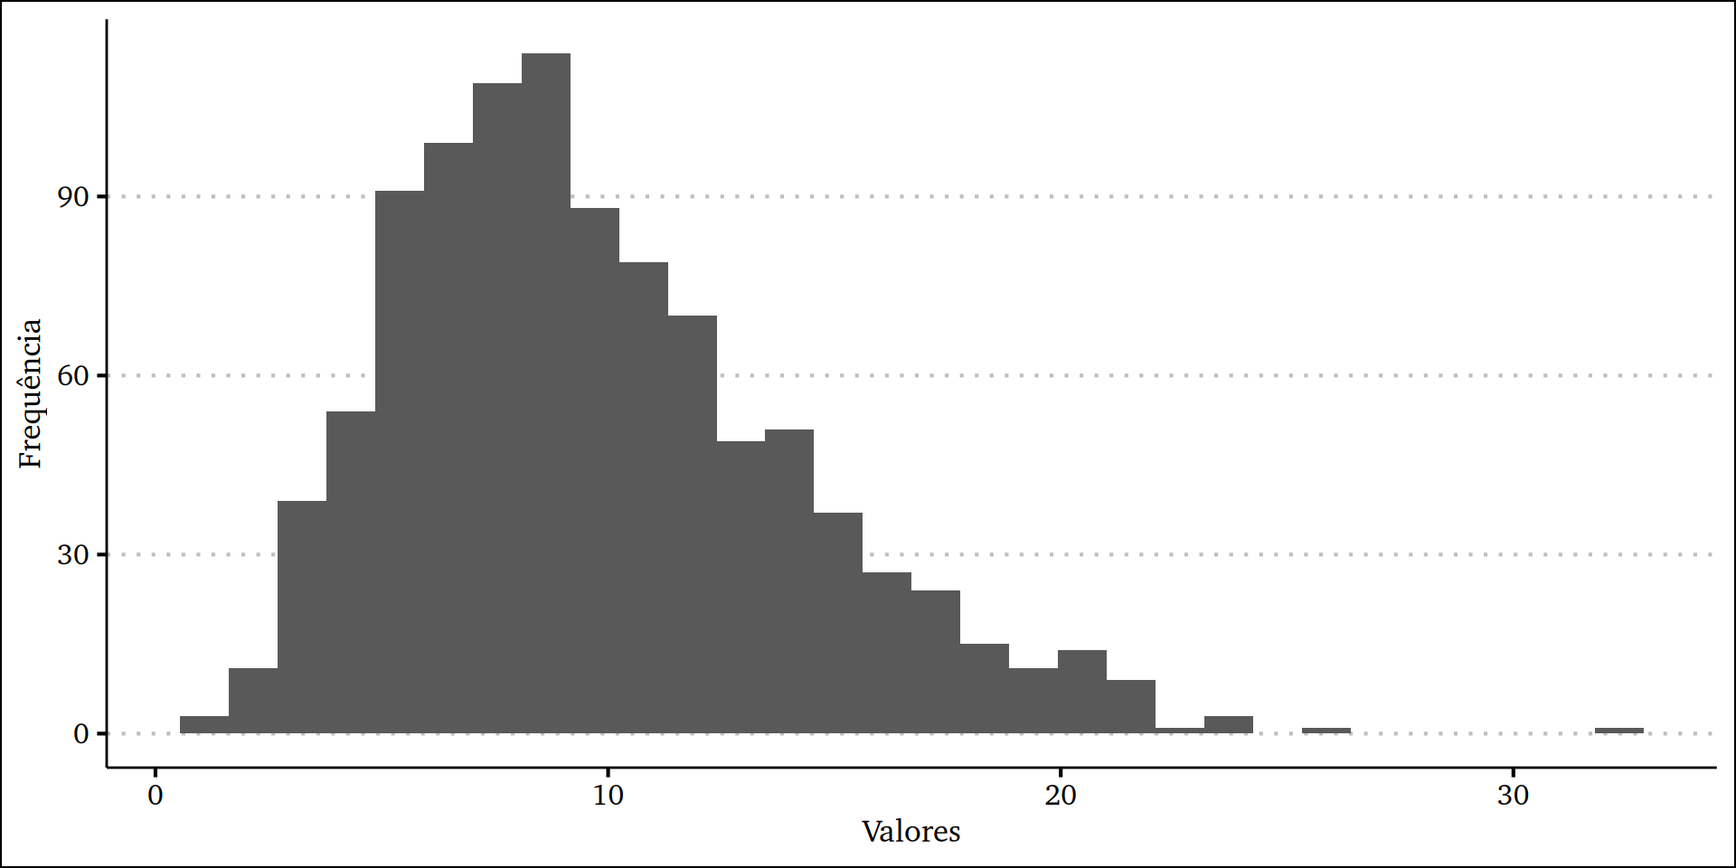
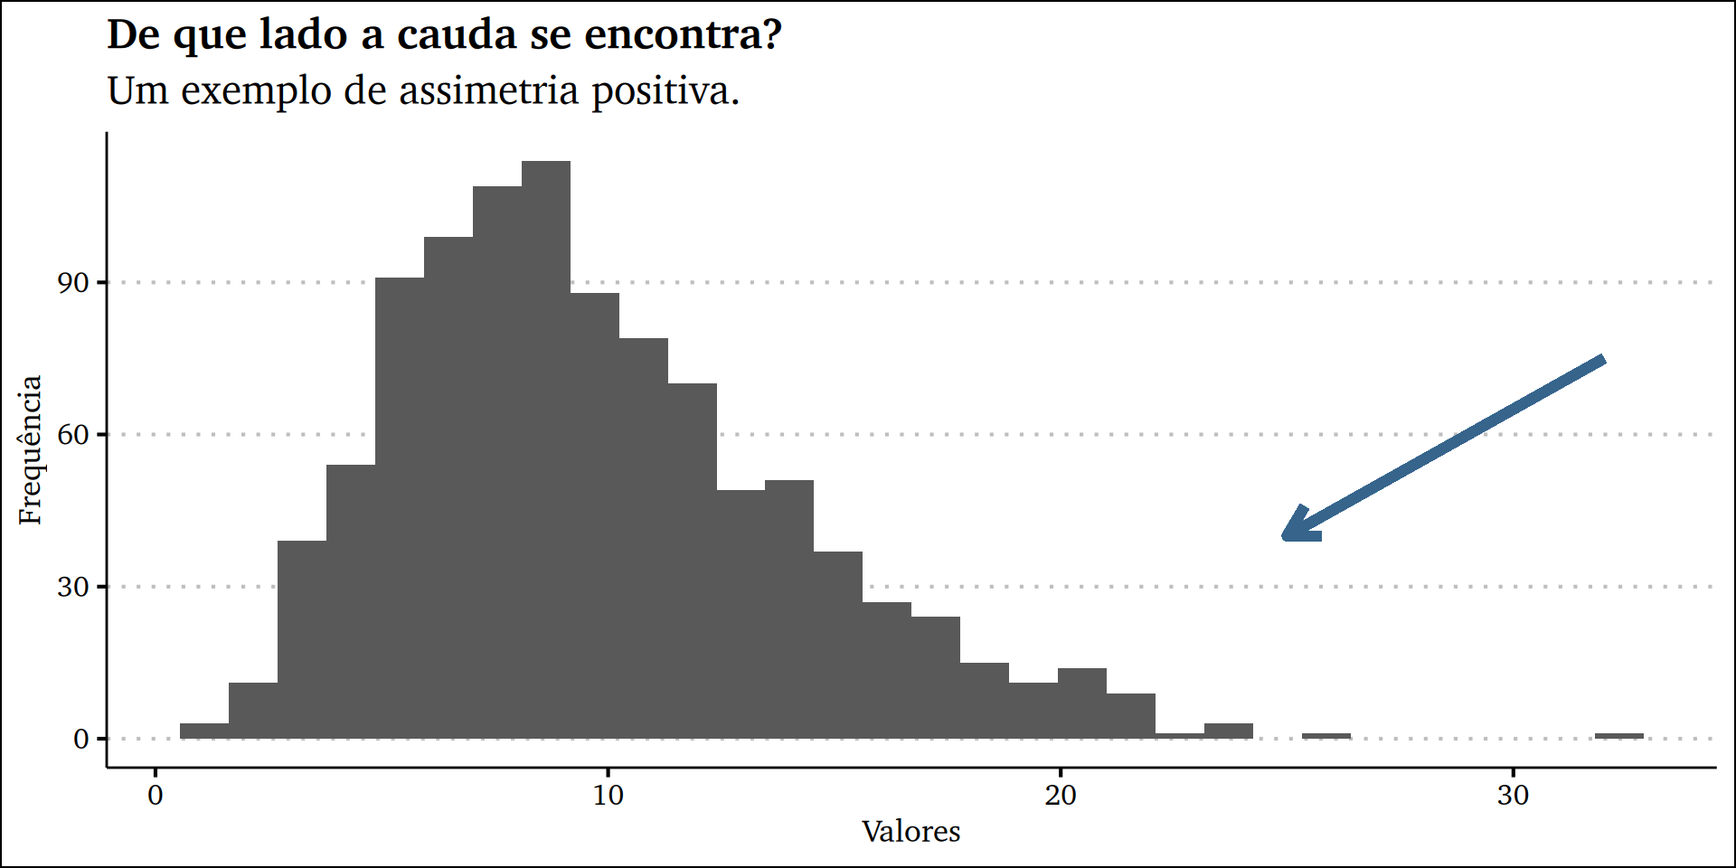
Adicionar título, subtítulo e flecha no gráfico de exemplo de assimetria positiva na aula 4 de análise descritiva.

diff --git a/docs/slides/4_descritiva/slides_descritiva.html b/docs/slides/4_descritiva/slides_descritiva.html
@@ -795,17 +795,7 @@ W = 0.95921, p-value = 0.00000003679</code></pre>
 </section>
 <section id="exemplo-de-distribuição-assimétrica" class="slide level2">
 <h2>Exemplo de distribuição assimétrica</h2>
-<div class="cell" data-layout-align="center">
-<div class="sourceCode cell-code" id="cb29"><pre class="sourceCode numberSource r number-lines code-with-copy"><code class="sourceCode r"><span id="cb29-1"><a href="#cb29-1"></a><span class="fu">set.seed</span>(<span class="dv">1</span>)</span>
-<span id="cb29-2"><a href="#cb29-2"></a></span>
-<span id="cb29-3"><a href="#cb29-3"></a><span class="fu">tibble</span>(<span class="at">x =</span> <span class="fu">rchisq</span>(<span class="dv">1000</span>, <span class="dv">10</span>)) <span class="sc">|&gt;</span> </span>
-<span id="cb29-4"><a href="#cb29-4"></a>  <span class="fu">ggplot</span>() <span class="sc">+</span></span>
-<span id="cb29-5"><a href="#cb29-5"></a>  <span class="fu">aes</span>(<span class="at">x =</span> x) <span class="sc">+</span></span>
-<span id="cb29-6"><a href="#cb29-6"></a>  <span class="fu">geom_histogram</span>() <span class="sc">+</span></span>
-<span id="cb29-7"><a href="#cb29-7"></a>  <span class="fu">labs</span>(<span class="at">x =</span> <span class="st">"Valores"</span>, <span class="at">y =</span> <span class="st">"Frequência"</span>) <span class="sc">+</span></span>
-<span id="cb29-8"><a href="#cb29-8"></a>  ggthemes<span class="sc">::</span><span class="fu">theme_clean</span>(<span class="at">base_size =</span> <span class="dv">16</span>, <span class="at">base_family =</span> <span class="st">"Charter"</span>)</span></code><button title="Copiar para a área de transferência" class="code-copy-button"><i class="bi"></i></button></pre></div>
 
-</div>
 <img data-src="slides_descritiva_files/figure-revealjs/histograma-distribuicao-assimetrica-1.png" style="width:65.0%" class="r-stretch quarto-figure-center"></section>
 <section id="curtose" class="slide level2">
 <h2>Curtose</h2>
@@ -829,19 +819,19 @@ W = 0.95921, p-value = 0.00000003679</code></pre>
 <div class="columns">
 <div class="column" style="width:50%;">
 <div class="cell">
-<div class="sourceCode cell-code" id="cb30"><pre class="sourceCode numberSource r number-lines code-with-copy"><code class="sourceCode r"><span id="cb30-1"><a href="#cb30-1"></a><span class="fu">library</span>(moments)</span>
-<span id="cb30-2"><a href="#cb30-2"></a>pinguins <span class="sc">|&gt;</span></span>
-<span id="cb30-3"><a href="#cb30-3"></a>  <span class="fu">pull</span>(massa_corporal) <span class="sc">|&gt;</span></span>
-<span id="cb30-4"><a href="#cb30-4"></a>  <span class="fu">skewness</span>(<span class="at">na.rm =</span> <span class="cn">TRUE</span>)</span></code><button title="Copiar para a área de transferência" class="code-copy-button"><i class="bi"></i></button></pre></div>
+<div class="sourceCode cell-code" id="cb29"><pre class="sourceCode numberSource r number-lines code-with-copy"><code class="sourceCode r"><span id="cb29-1"><a href="#cb29-1"></a><span class="fu">library</span>(moments)</span>
+<span id="cb29-2"><a href="#cb29-2"></a>pinguins <span class="sc">|&gt;</span></span>
+<span id="cb29-3"><a href="#cb29-3"></a>  <span class="fu">pull</span>(massa_corporal) <span class="sc">|&gt;</span></span>
+<span id="cb29-4"><a href="#cb29-4"></a>  <span class="fu">skewness</span>(<span class="at">na.rm =</span> <span class="cn">TRUE</span>)</span></code><button title="Copiar para a área de transferência" class="code-copy-button"><i class="bi"></i></button></pre></div>
 <div class="cell-output cell-output-stdout">
 <pre><code>[1] 0.468264</code></pre>
 </div>
 </div>
 </div><div class="column" style="width:50%;">
 <div class="cell">
-<div class="sourceCode cell-code" id="cb32"><pre class="sourceCode numberSource r number-lines code-with-copy"><code class="sourceCode r"><span id="cb32-1"><a href="#cb32-1"></a>pinguins <span class="sc">|&gt;</span></span>
-<span id="cb32-2"><a href="#cb32-2"></a>  <span class="fu">pull</span>(massa_corporal) <span class="sc">|&gt;</span></span>
-<span id="cb32-3"><a href="#cb32-3"></a>  <span class="fu">kurtosis</span>(<span class="at">na.rm =</span> <span class="cn">TRUE</span>)</span></code><button title="Copiar para a área de transferência" class="code-copy-button"><i class="bi"></i></button></pre></div>
+<div class="sourceCode cell-code" id="cb31"><pre class="sourceCode numberSource r number-lines code-with-copy"><code class="sourceCode r"><span id="cb31-1"><a href="#cb31-1"></a>pinguins <span class="sc">|&gt;</span></span>
+<span id="cb31-2"><a href="#cb31-2"></a>  <span class="fu">pull</span>(massa_corporal) <span class="sc">|&gt;</span></span>
+<span id="cb31-3"><a href="#cb31-3"></a>  <span class="fu">kurtosis</span>(<span class="at">na.rm =</span> <span class="cn">TRUE</span>)</span></code><button title="Copiar para a área de transferência" class="code-copy-button"><i class="bi"></i></button></pre></div>
 <div class="cell-output cell-output-stdout">
 <pre><code>[1] 2.273757</code></pre>
 </div>
@@ -883,13 +873,13 @@ W = 0.95921, p-value = 0.00000003679</code></pre>
 <div class="columns">
 <div class="column" style="width:50%;">
 <div class="cell" data-layout-align="center">
-<div class="sourceCode cell-code" id="cb34"><pre class="sourceCode numberSource r number-lines code-with-copy"><code class="sourceCode r"><span id="cb34-1"><a href="#cb34-1"></a>pinguins <span class="sc">|&gt;</span></span>
-<span id="cb34-2"><a href="#cb34-2"></a>  <span class="fu">ggplot</span>(<span class="fu">aes</span>(<span class="at">x =</span> massa_corporal)) <span class="sc">+</span></span>
-<span id="cb34-3"><a href="#cb34-3"></a>  <span class="fu">geom_histogram</span>(<span class="at">fill =</span> <span class="st">"coral2"</span>) <span class="sc">+</span></span>
-<span id="cb34-4"><a href="#cb34-4"></a>  <span class="fu">labs</span>(<span class="at">x =</span> <span class="st">"Massa corporal (em gramas)"</span>,</span>
-<span id="cb34-5"><a href="#cb34-5"></a>       <span class="at">y =</span> <span class="st">"Frequência"</span>) <span class="sc">+</span></span>
-<span id="cb34-6"><a href="#cb34-6"></a>  <span class="fu">theme_bw</span>(<span class="at">base_size =</span> <span class="dv">16</span>,</span>
-<span id="cb34-7"><a href="#cb34-7"></a>           <span class="at">base_family =</span> <span class="st">"Charter"</span>)</span></code><button title="Copiar para a área de transferência" class="code-copy-button"><i class="bi"></i></button></pre></div>
+<div class="sourceCode cell-code" id="cb33"><pre class="sourceCode numberSource r number-lines code-with-copy"><code class="sourceCode r"><span id="cb33-1"><a href="#cb33-1"></a>pinguins <span class="sc">|&gt;</span></span>
+<span id="cb33-2"><a href="#cb33-2"></a>  <span class="fu">ggplot</span>(<span class="fu">aes</span>(<span class="at">x =</span> massa_corporal)) <span class="sc">+</span></span>
+<span id="cb33-3"><a href="#cb33-3"></a>  <span class="fu">geom_histogram</span>(<span class="at">fill =</span> <span class="st">"coral2"</span>) <span class="sc">+</span></span>
+<span id="cb33-4"><a href="#cb33-4"></a>  <span class="fu">labs</span>(<span class="at">x =</span> <span class="st">"Massa corporal (em gramas)"</span>,</span>
+<span id="cb33-5"><a href="#cb33-5"></a>       <span class="at">y =</span> <span class="st">"Frequência"</span>) <span class="sc">+</span></span>
+<span id="cb33-6"><a href="#cb33-6"></a>  <span class="fu">theme_bw</span>(<span class="at">base_size =</span> <span class="dv">16</span>,</span>
+<span id="cb33-7"><a href="#cb33-7"></a>           <span class="at">base_family =</span> <span class="st">"Charter"</span>)</span></code><button title="Copiar para a área de transferência" class="code-copy-button"><i class="bi"></i></button></pre></div>
 <div class="cell-output-display">
 <div class="quarto-figure quarto-figure-center">
 <figure>
@@ -900,14 +890,14 @@ W = 0.95921, p-value = 0.00000003679</code></pre>
 </div>
 </div><div class="column" style="width:50%;">
 <div class="cell">
-<div class="sourceCode cell-code" id="cb35"><pre class="sourceCode numberSource r number-lines code-with-copy"><code class="sourceCode r"><span id="cb35-1"><a href="#cb35-1"></a>pinguins <span class="sc">|&gt;</span></span>
-<span id="cb35-2"><a href="#cb35-2"></a>  <span class="fu">mutate</span>(<span class="at">massa_log =</span> <span class="fu">log10</span>(massa_corporal)) <span class="sc">|&gt;</span></span>
-<span id="cb35-3"><a href="#cb35-3"></a>  <span class="fu">ggplot</span>(<span class="fu">aes</span>(<span class="at">x =</span> massa_log)) <span class="sc">+</span></span>
-<span id="cb35-4"><a href="#cb35-4"></a>  <span class="fu">geom_histogram</span>(<span class="at">fill =</span> <span class="st">"deepskyblue4"</span>) <span class="sc">+</span></span>
-<span id="cb35-5"><a href="#cb35-5"></a>  <span class="fu">labs</span>(<span class="at">x =</span> <span class="st">"Log da massa corporal"</span>,</span>
-<span id="cb35-6"><a href="#cb35-6"></a>       <span class="at">y =</span> <span class="st">"Frequência"</span>) <span class="sc">+</span></span>
-<span id="cb35-7"><a href="#cb35-7"></a>  <span class="fu">theme_bw</span>(<span class="at">base_size =</span> <span class="dv">16</span>,</span>
-<span id="cb35-8"><a href="#cb35-8"></a>           <span class="at">base_family =</span> <span class="st">"Charter"</span>)</span></code><button title="Copiar para a área de transferência" class="code-copy-button"><i class="bi"></i></button></pre></div>
+<div class="sourceCode cell-code" id="cb34"><pre class="sourceCode numberSource r number-lines code-with-copy"><code class="sourceCode r"><span id="cb34-1"><a href="#cb34-1"></a>pinguins <span class="sc">|&gt;</span></span>
+<span id="cb34-2"><a href="#cb34-2"></a>  <span class="fu">mutate</span>(<span class="at">massa_log =</span> <span class="fu">log10</span>(massa_corporal)) <span class="sc">|&gt;</span></span>
+<span id="cb34-3"><a href="#cb34-3"></a>  <span class="fu">ggplot</span>(<span class="fu">aes</span>(<span class="at">x =</span> massa_log)) <span class="sc">+</span></span>
+<span id="cb34-4"><a href="#cb34-4"></a>  <span class="fu">geom_histogram</span>(<span class="at">fill =</span> <span class="st">"deepskyblue4"</span>) <span class="sc">+</span></span>
+<span id="cb34-5"><a href="#cb34-5"></a>  <span class="fu">labs</span>(<span class="at">x =</span> <span class="st">"Log da massa corporal"</span>,</span>
+<span id="cb34-6"><a href="#cb34-6"></a>       <span class="at">y =</span> <span class="st">"Frequência"</span>) <span class="sc">+</span></span>
+<span id="cb34-7"><a href="#cb34-7"></a>  <span class="fu">theme_bw</span>(<span class="at">base_size =</span> <span class="dv">16</span>,</span>
+<span id="cb34-8"><a href="#cb34-8"></a>           <span class="at">base_family =</span> <span class="st">"Charter"</span>)</span></code><button title="Copiar para a área de transferência" class="code-copy-button"><i class="bi"></i></button></pre></div>
 <div class="cell-output-display">
 <p><img data-src="slides_descritiva_files/figure-revealjs/log-massa-corporal-1.png" width="960"></p>
 </div>
@@ -920,10 +910,10 @@ W = 0.95921, p-value = 0.00000003679</code></pre>
 <p>O pacote <code>janitor</code> oferece uma função <code>tabyl()</code> para produzir tabulações e tabulações cruzadas, que podem ser modificadas para exibir porcentagens, proporções, etc.</p>
 <div class="fragment">
 <div class="cell">
-<div class="sourceCode cell-code" id="cb36"><pre class="sourceCode numberSource r number-lines code-with-copy"><code class="sourceCode r"><span id="cb36-1"><a href="#cb36-1"></a><span class="fu">library</span>(janitor)</span>
-<span id="cb36-2"><a href="#cb36-2"></a></span>
-<span id="cb36-3"><a href="#cb36-3"></a>pinguins <span class="sc">|&gt;</span> </span>
-<span id="cb36-4"><a href="#cb36-4"></a>  <span class="fu">tabyl</span>(especie)</span></code><button title="Copiar para a área de transferência" class="code-copy-button"><i class="bi"></i></button></pre></div>
+<div class="sourceCode cell-code" id="cb35"><pre class="sourceCode numberSource r number-lines code-with-copy"><code class="sourceCode r"><span id="cb35-1"><a href="#cb35-1"></a><span class="fu">library</span>(janitor)</span>
+<span id="cb35-2"><a href="#cb35-2"></a></span>
+<span id="cb35-3"><a href="#cb35-3"></a>pinguins <span class="sc">|&gt;</span> </span>
+<span id="cb35-4"><a href="#cb35-4"></a>  <span class="fu">tabyl</span>(especie)</span></code><button title="Copiar para a área de transferência" class="code-copy-button"><i class="bi"></i></button></pre></div>
 <div class="cell-output cell-output-stdout">
 <pre><code>             especie   n   percent
    Pinguim-de-adélia 152 0.4418605
@@ -934,8 +924,8 @@ W = 0.95921, p-value = 0.00000003679</code></pre>
 </div>
 <div class="fragment">
 <div class="cell">
-<div class="sourceCode cell-code" id="cb38"><pre class="sourceCode numberSource r number-lines code-with-copy"><code class="sourceCode r"><span id="cb38-1"><a href="#cb38-1"></a>pinguins <span class="sc">|&gt;</span> </span>
-<span id="cb38-2"><a href="#cb38-2"></a>  <span class="fu">tabyl</span>(especie, ilha)</span></code><button title="Copiar para a área de transferência" class="code-copy-button"><i class="bi"></i></button></pre></div>
+<div class="sourceCode cell-code" id="cb37"><pre class="sourceCode numberSource r number-lines code-with-copy"><code class="sourceCode r"><span id="cb37-1"><a href="#cb37-1"></a>pinguins <span class="sc">|&gt;</span> </span>
+<span id="cb37-2"><a href="#cb37-2"></a>  <span class="fu">tabyl</span>(especie, ilha)</span></code><button title="Copiar para a área de transferência" class="code-copy-button"><i class="bi"></i></button></pre></div>
 <div class="cell-output cell-output-stdout">
 <pre><code>             especie Biscoe Dream Torgersen
    Pinguim-de-adélia     44    56        52
@@ -993,8 +983,8 @@ W = 0.95921, p-value = 0.00000003679</code></pre>
 <div class="tab-content">
 <div id="tabset-1-1">
 <div class="cell">
-<div class="sourceCode cell-code" id="cb40"><pre class="sourceCode numberSource r number-lines code-with-copy"><code class="sourceCode r"><span id="cb40-1"><a href="#cb40-1"></a>pinguins <span class="sc">|&gt;</span> </span>
-<span id="cb40-2"><a href="#cb40-2"></a>  <span class="fu">tabyl</span>(especie, ilha)</span></code><button title="Copiar para a área de transferência" class="code-copy-button"><i class="bi"></i></button></pre></div>
+<div class="sourceCode cell-code" id="cb39"><pre class="sourceCode numberSource r number-lines code-with-copy"><code class="sourceCode r"><span id="cb39-1"><a href="#cb39-1"></a>pinguins <span class="sc">|&gt;</span> </span>
+<span id="cb39-2"><a href="#cb39-2"></a>  <span class="fu">tabyl</span>(especie, ilha)</span></code><button title="Copiar para a área de transferência" class="code-copy-button"><i class="bi"></i></button></pre></div>
 <div class="cell-output cell-output-stdout">
 <pre><code>             especie Biscoe Dream Torgersen
    Pinguim-de-adélia     44    56        52
@@ -1005,11 +995,11 @@ W = 0.95921, p-value = 0.00000003679</code></pre>
 </div>
 <div id="tabset-1-2">
 <div class="cell">
-<div class="sourceCode cell-code" id="cb42"><pre class="sourceCode numberSource r number-lines code-with-copy"><code class="sourceCode r"><span id="cb42-1"><a href="#cb42-1"></a>pinguins <span class="sc">|&gt;</span></span>
-<span id="cb42-2"><a href="#cb42-2"></a>  <span class="fu">tabyl</span>(especie, ilha) <span class="sc">|&gt;</span></span>
-<span id="cb42-3"><a href="#cb42-3"></a>  <span class="fu">adorn_totals</span>(<span class="at">where =</span> <span class="st">"row"</span>) <span class="sc">|&gt;</span></span>
-<span id="cb42-4"><a href="#cb42-4"></a>  <span class="fu">adorn_percentages</span>(<span class="at">denominator =</span> <span class="st">"col"</span>) <span class="sc">|&gt;</span></span>
-<span id="cb42-5"><a href="#cb42-5"></a>  <span class="fu">adorn_pct_formatting</span>(<span class="at">digits =</span> <span class="dv">1</span>)   </span></code><button title="Copiar para a área de transferência" class="code-copy-button"><i class="bi"></i></button></pre></div>
+<div class="sourceCode cell-code" id="cb41"><pre class="sourceCode numberSource r number-lines code-with-copy"><code class="sourceCode r"><span id="cb41-1"><a href="#cb41-1"></a>pinguins <span class="sc">|&gt;</span></span>
+<span id="cb41-2"><a href="#cb41-2"></a>  <span class="fu">tabyl</span>(especie, ilha) <span class="sc">|&gt;</span></span>
+<span id="cb41-3"><a href="#cb41-3"></a>  <span class="fu">adorn_totals</span>(<span class="at">where =</span> <span class="st">"row"</span>) <span class="sc">|&gt;</span></span>
+<span id="cb41-4"><a href="#cb41-4"></a>  <span class="fu">adorn_percentages</span>(<span class="at">denominator =</span> <span class="st">"col"</span>) <span class="sc">|&gt;</span></span>
+<span id="cb41-5"><a href="#cb41-5"></a>  <span class="fu">adorn_pct_formatting</span>(<span class="at">digits =</span> <span class="dv">1</span>)   </span></code><button title="Copiar para a área de transferência" class="code-copy-button"><i class="bi"></i></button></pre></div>
 <div class="cell-output cell-output-stdout">
 <pre><code>             especie Biscoe  Dream Torgersen
    Pinguim-de-adélia  26.2%  45.2%    100.0%
@@ -1021,15 +1011,15 @@ W = 0.95921, p-value = 0.00000003679</code></pre>
 </div>
 <div id="tabset-1-3">
 <div class="cell">
-<div class="sourceCode cell-code" id="cb44"><pre class="sourceCode numberSource r number-lines code-with-copy"><code class="sourceCode r"><span id="cb44-1"><a href="#cb44-1"></a>pinguins <span class="sc">|&gt;</span> </span>
-<span id="cb44-2"><a href="#cb44-2"></a>  <span class="fu">tabyl</span>(especie, ilha) <span class="sc">|&gt;</span> </span>
-<span id="cb44-3"><a href="#cb44-3"></a>  <span class="fu">adorn_totals</span>(<span class="at">where =</span> <span class="st">"row"</span>) <span class="sc">|&gt;</span> </span>
-<span id="cb44-4"><a href="#cb44-4"></a>  <span class="fu">adorn_percentages</span>(<span class="at">denominator =</span> <span class="st">"col"</span>) <span class="sc">|&gt;</span> </span>
-<span id="cb44-5"><a href="#cb44-5"></a>  <span class="fu">adorn_pct_formatting</span>() <span class="sc">|&gt;</span> </span>
-<span id="cb44-6"><a href="#cb44-6"></a>  <span class="fu">adorn_ns</span>(<span class="at">position =</span> <span class="st">"front"</span>) <span class="sc">|&gt;</span> </span>
-<span id="cb44-7"><a href="#cb44-7"></a>  <span class="fu">adorn_title</span>(</span>
-<span id="cb44-8"><a href="#cb44-8"></a>    <span class="at">row_name =</span> <span class="st">"Espécie"</span>,</span>
-<span id="cb44-9"><a href="#cb44-9"></a>    <span class="at">col_name =</span> <span class="st">"Ilha"</span>)</span></code><button title="Copiar para a área de transferência" class="code-copy-button"><i class="bi"></i></button></pre></div>
+<div class="sourceCode cell-code" id="cb43"><pre class="sourceCode numberSource r number-lines code-with-copy"><code class="sourceCode r"><span id="cb43-1"><a href="#cb43-1"></a>pinguins <span class="sc">|&gt;</span> </span>
+<span id="cb43-2"><a href="#cb43-2"></a>  <span class="fu">tabyl</span>(especie, ilha) <span class="sc">|&gt;</span> </span>
+<span id="cb43-3"><a href="#cb43-3"></a>  <span class="fu">adorn_totals</span>(<span class="at">where =</span> <span class="st">"row"</span>) <span class="sc">|&gt;</span> </span>
+<span id="cb43-4"><a href="#cb43-4"></a>  <span class="fu">adorn_percentages</span>(<span class="at">denominator =</span> <span class="st">"col"</span>) <span class="sc">|&gt;</span> </span>
+<span id="cb43-5"><a href="#cb43-5"></a>  <span class="fu">adorn_pct_formatting</span>() <span class="sc">|&gt;</span> </span>
+<span id="cb43-6"><a href="#cb43-6"></a>  <span class="fu">adorn_ns</span>(<span class="at">position =</span> <span class="st">"front"</span>) <span class="sc">|&gt;</span> </span>
+<span id="cb43-7"><a href="#cb43-7"></a>  <span class="fu">adorn_title</span>(</span>
+<span id="cb43-8"><a href="#cb43-8"></a>    <span class="at">row_name =</span> <span class="st">"Espécie"</span>,</span>
+<span id="cb43-9"><a href="#cb43-9"></a>    <span class="at">col_name =</span> <span class="st">"Ilha"</span>)</span></code><button title="Copiar para a área de transferência" class="code-copy-button"><i class="bi"></i></button></pre></div>
 <div class="cell-output cell-output-stdout">
 <pre><code>                             Ilha                         
              Espécie       Biscoe        Dream   Torgersen
@@ -1042,18 +1032,18 @@ W = 0.95921, p-value = 0.00000003679</code></pre>
 </div>
 <div id="tabset-1-4">
 <div class="cell">
-<div class="sourceCode cell-code" id="cb46"><pre class="sourceCode numberSource r number-lines code-with-copy"><code class="sourceCode r"><span id="cb46-1"><a href="#cb46-1"></a>pinguins <span class="sc">|&gt;</span> </span>
-<span id="cb46-2"><a href="#cb46-2"></a>  <span class="fu">tabyl</span>(especie, ilha) <span class="sc">|&gt;</span> </span>
-<span id="cb46-3"><a href="#cb46-3"></a>  <span class="fu">adorn_totals</span>(<span class="at">where =</span> <span class="st">"row"</span>) <span class="sc">|&gt;</span> </span>
-<span id="cb46-4"><a href="#cb46-4"></a>  <span class="fu">adorn_percentages</span>(<span class="at">denominator =</span> <span class="st">"col"</span>) <span class="sc">|&gt;</span> </span>
-<span id="cb46-5"><a href="#cb46-5"></a>  <span class="fu">adorn_pct_formatting</span>() <span class="sc">|&gt;</span> </span>
-<span id="cb46-6"><a href="#cb46-6"></a>  <span class="fu">adorn_ns</span>(<span class="at">position =</span> <span class="st">"front"</span>) <span class="sc">|&gt;</span> </span>
-<span id="cb46-7"><a href="#cb46-7"></a>  <span class="fu">adorn_title</span>(</span>
-<span id="cb46-8"><a href="#cb46-8"></a>    <span class="at">row_name =</span> <span class="st">"Espécie"</span>,</span>
-<span id="cb46-9"><a href="#cb46-9"></a>    <span class="at">col_name =</span> <span class="st">"Ilha"</span>,</span>
-<span id="cb46-10"><a href="#cb46-10"></a>    <span class="at">placement =</span> <span class="st">"combined"</span>) <span class="sc">|&gt;</span> </span>
-<span id="cb46-11"><a href="#cb46-11"></a>  flextable<span class="sc">::</span><span class="fu">flextable</span>() <span class="sc">|&gt;</span> </span>
-<span id="cb46-12"><a href="#cb46-12"></a>  flextable<span class="sc">::</span><span class="fu">save_as_docx</span>(<span class="at">path =</span> <span class="st">"tabela_especie_ilha.docx"</span>)</span></code><button title="Copiar para a área de transferência" class="code-copy-button"><i class="bi"></i></button></pre></div>
+<div class="sourceCode cell-code" id="cb45"><pre class="sourceCode numberSource r number-lines code-with-copy"><code class="sourceCode r"><span id="cb45-1"><a href="#cb45-1"></a>pinguins <span class="sc">|&gt;</span> </span>
+<span id="cb45-2"><a href="#cb45-2"></a>  <span class="fu">tabyl</span>(especie, ilha) <span class="sc">|&gt;</span> </span>
+<span id="cb45-3"><a href="#cb45-3"></a>  <span class="fu">adorn_totals</span>(<span class="at">where =</span> <span class="st">"row"</span>) <span class="sc">|&gt;</span> </span>
+<span id="cb45-4"><a href="#cb45-4"></a>  <span class="fu">adorn_percentages</span>(<span class="at">denominator =</span> <span class="st">"col"</span>) <span class="sc">|&gt;</span> </span>
+<span id="cb45-5"><a href="#cb45-5"></a>  <span class="fu">adorn_pct_formatting</span>() <span class="sc">|&gt;</span> </span>
+<span id="cb45-6"><a href="#cb45-6"></a>  <span class="fu">adorn_ns</span>(<span class="at">position =</span> <span class="st">"front"</span>) <span class="sc">|&gt;</span> </span>
+<span id="cb45-7"><a href="#cb45-7"></a>  <span class="fu">adorn_title</span>(</span>
+<span id="cb45-8"><a href="#cb45-8"></a>    <span class="at">row_name =</span> <span class="st">"Espécie"</span>,</span>
+<span id="cb45-9"><a href="#cb45-9"></a>    <span class="at">col_name =</span> <span class="st">"Ilha"</span>,</span>
+<span id="cb45-10"><a href="#cb45-10"></a>    <span class="at">placement =</span> <span class="st">"combined"</span>) <span class="sc">|&gt;</span> </span>
+<span id="cb45-11"><a href="#cb45-11"></a>  flextable<span class="sc">::</span><span class="fu">flextable</span>() <span class="sc">|&gt;</span> </span>
+<span id="cb45-12"><a href="#cb45-12"></a>  flextable<span class="sc">::</span><span class="fu">save_as_docx</span>(<span class="at">path =</span> <span class="st">"tabela_especie_ilha.docx"</span>)</span></code><button title="Copiar para a área de transferência" class="code-copy-button"><i class="bi"></i></button></pre></div>
 </div>
 <div class="quarto-figure quarto-figure-center">
 <figure>
